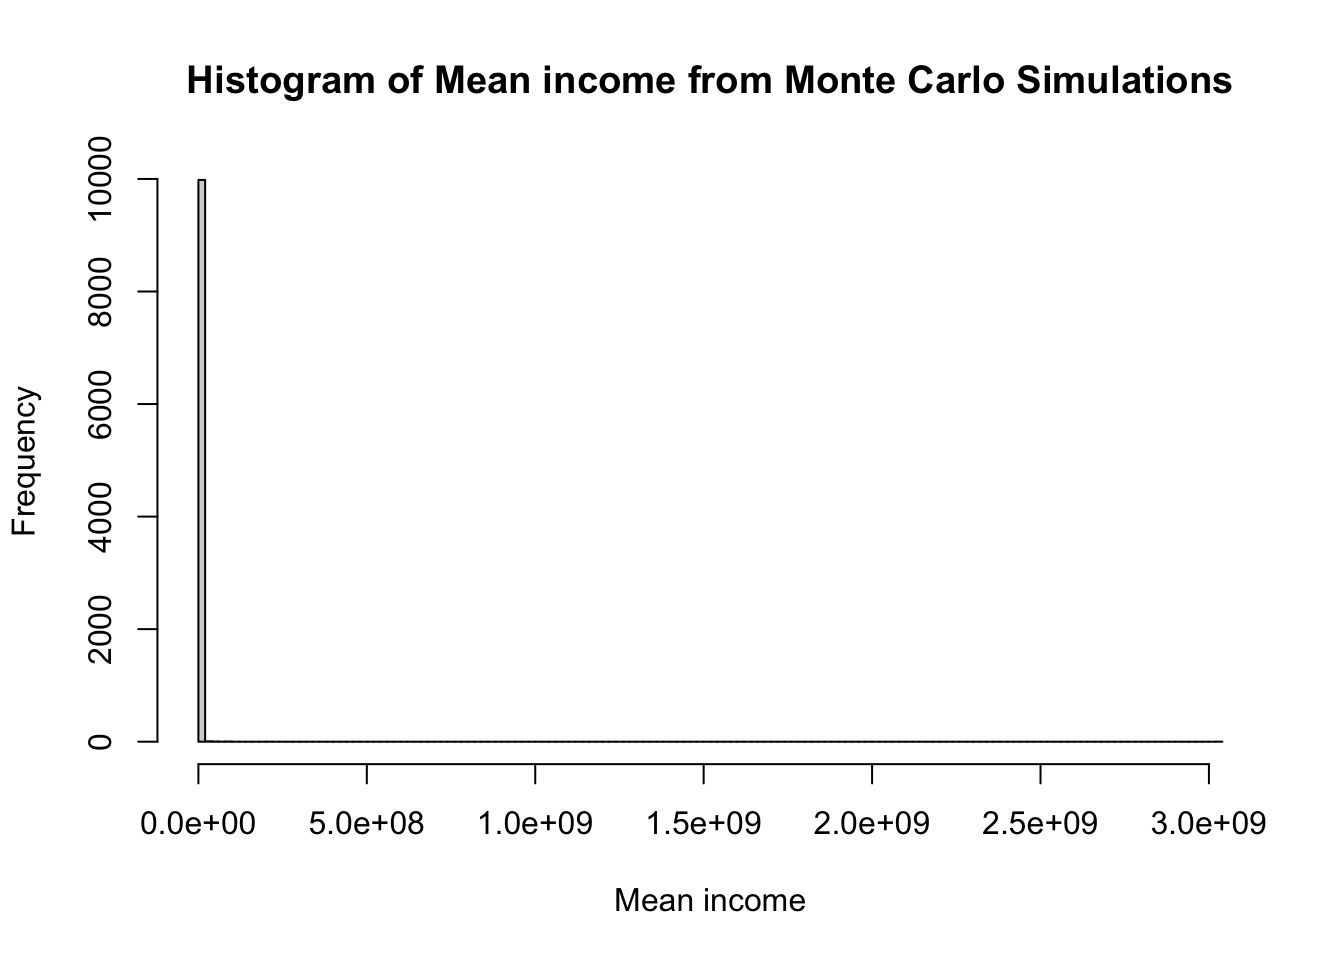
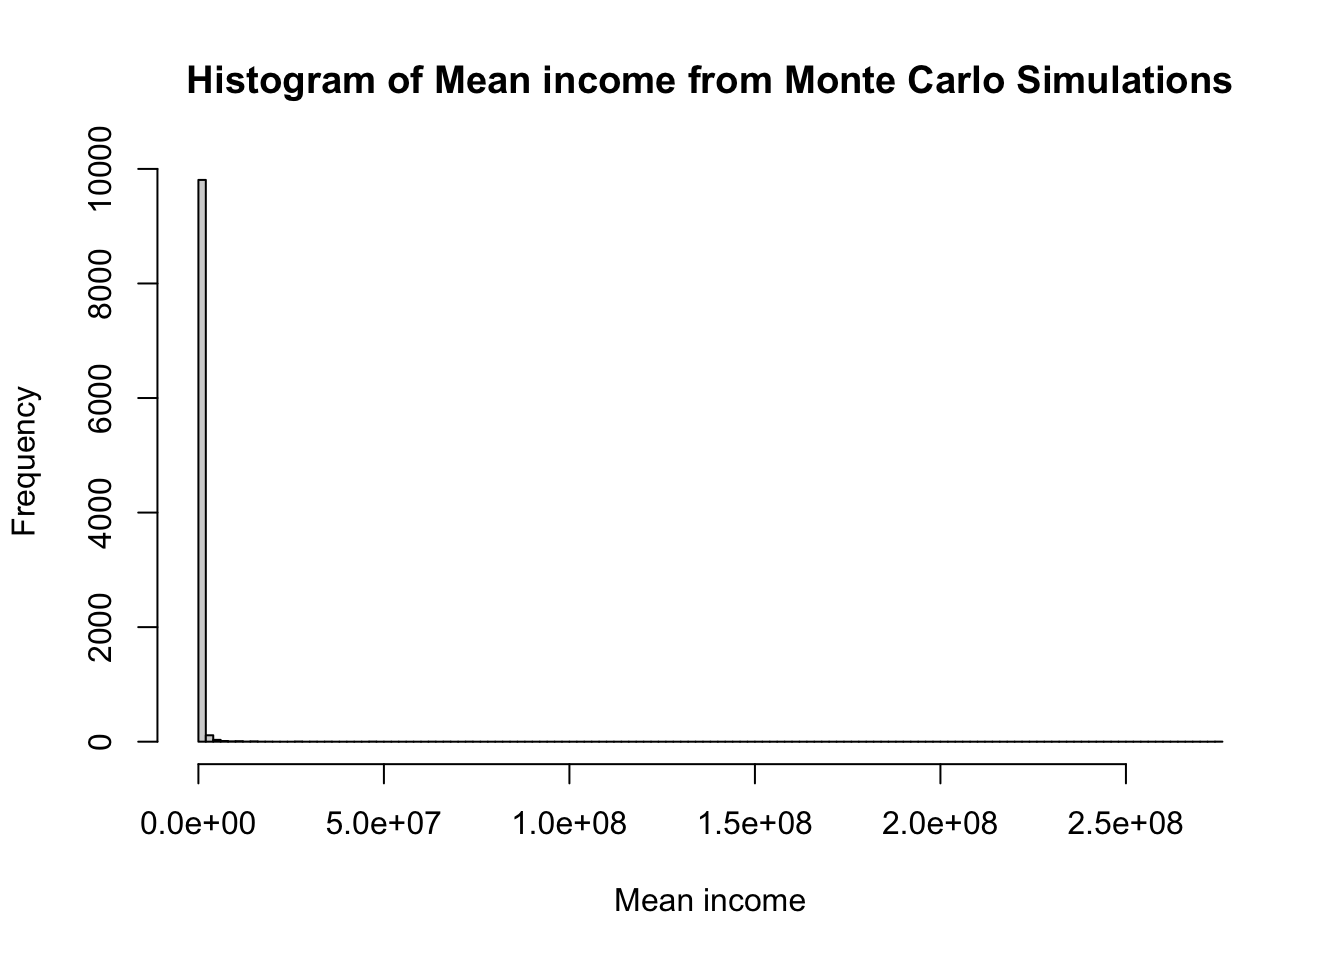
2811247

diff --git a/docs/posts/montecarlo.html b/docs/posts/montecarlo.html
@@ -1972,7 +1972,7 @@ Income distribution is not normal
 </details>
 <div class="cell-output cell-output-stdout">
 <pre><code>     Min.   1st Qu.    Median      Mean   3rd Qu.      Max. 
-2.002e+05 2.963e+05 3.431e+05 8.803e+05 4.387e+05 3.030e+09 </code></pre>
+   215813    295732    343101    555486    434489 274288282 </code></pre>
 </div>
 <details open="" class="code-fold">
 <summary>Code</summary>
@@ -1980,7 +1980,7 @@ Income distribution is not normal
 </details>
 <div class="cell-output cell-output-stdout">
 <pre><code>   Min. 1st Qu.  Median    Mean 3rd Qu.    Max. 
-  62326   64065   64500   64510   64946   66741 </code></pre>
+  62216   64075   64512   64512   64949   67062 </code></pre>
 </div>
 <details open="" class="code-fold">
 <summary>Code</summary>
@@ -1988,7 +1988,7 @@ Income distribution is not normal
 </details>
 <div class="cell-output cell-output-stdout">
 <pre><code>     Min.   1st Qu.    Median      Mean   3rd Qu.      Max. 
-7.520e+05 3.330e+06 5.618e+06 5.853e+07 1.205e+07 3.029e+11 </code></pre>
+1.051e+06 3.333e+06 5.624e+06 2.617e+07 1.160e+07 2.736e+10 </code></pre>
 </div>
 </div>
 </section>

diff --git a/docs/Biomedical/Research Methodology/wrangling.html b/docs/Biomedical/Research Methodology/wrangling.html
@@ -3270,9 +3270,9 @@ Record
 1:     1     1  child
 2:     2     0  child
 3:     3     1  child
-4:     4     1  child
+4:     4     0  child
 5:     5     0  child
-6:     6     0  child</code></pre>
+6:     6     1  child</code></pre>
 </div>
 </div>
 <section id="making-data-wide" class="level3">
@@ -3293,9 +3293,9 @@ Record
 1:     1   &lt;NA&gt;  child
 2:     2  child   &lt;NA&gt;
 3:     3   &lt;NA&gt;  child
-4:     4   &lt;NA&gt;  child
+4:     4  child   &lt;NA&gt;
 5:     5  child   &lt;NA&gt;
-6:     6  child   &lt;NA&gt;</code></pre>
+6:     6   &lt;NA&gt;  child</code></pre>
 </div>
 </div>
 

diff --git a/docs/Revision notes/Diagrams/action.html b/docs/Revision notes/Diagrams/action.html
@@ -2215,7 +2215,7 @@ window.document.addEventListener("DOMContentLoaded", function (event) {
 </div>
   </div>
 </footer>
-<script>var lightboxQuarto = GLightbox({"descPosition":"bottom","loop":false,"closeEffect":"zoom","openEffect":"zoom","selector":".lightbox"});
+<script>var lightboxQuarto = GLightbox({"loop":false,"closeEffect":"zoom","openEffect":"zoom","selector":".lightbox","descPosition":"bottom"});
 (function() {
   let previousOnload = window.onload;
   window.onload = () => {

diff --git a/docs/Revision notes/Diagrams/artcart.html b/docs/Revision notes/Diagrams/artcart.html
@@ -2206,7 +2206,7 @@ window.document.addEventListener("DOMContentLoaded", function (event) {
 </div>
   </div>
 </footer>
-<script>var lightboxQuarto = GLightbox({"closeEffect":"zoom","selector":".lightbox","descPosition":"bottom","loop":false,"openEffect":"zoom"});
+<script>var lightboxQuarto = GLightbox({"closeEffect":"zoom","descPosition":"bottom","openEffect":"zoom","loop":false,"selector":".lightbox"});
 (function() {
   let previousOnload = window.onload;
   window.onload = () => {

diff --git a/docs/Revision notes/Diagrams/cemnt.html b/docs/Revision notes/Diagrams/cemnt.html
@@ -2206,7 +2206,7 @@ window.document.addEventListener("DOMContentLoaded", function (event) {
 </div>
   </div>
 </footer>
-<script>var lightboxQuarto = GLightbox({"closeEffect":"zoom","loop":false,"selector":".lightbox","openEffect":"zoom","descPosition":"bottom"});
+<script>var lightboxQuarto = GLightbox({"closeEffect":"zoom","selector":".lightbox","openEffect":"zoom","descPosition":"bottom","loop":false});
 (function() {
   let previousOnload = window.onload;
   window.onload = () => {

diff --git a/docs/Revision notes/Diagrams/ct.html b/docs/Revision notes/Diagrams/ct.html
@@ -2216,7 +2216,7 @@ window.document.addEventListener("DOMContentLoaded", function (event) {
 </div>
   </div>
 </footer>
-<script>var lightboxQuarto = GLightbox({"descPosition":"bottom","selector":".lightbox","loop":false,"closeEffect":"zoom","openEffect":"zoom"});
+<script>var lightboxQuarto = GLightbox({"selector":".lightbox","loop":false,"descPosition":"bottom","openEffect":"zoom","closeEffect":"zoom"});
 (function() {
   let previousOnload = window.onload;
   window.onload = () => {

diff --git a/docs/Revision notes/Diagrams/fmrbld.html b/docs/Revision notes/Diagrams/fmrbld.html
@@ -2215,7 +2215,7 @@ window.document.addEventListener("DOMContentLoaded", function (event) {
 </div>
   </div>
 </footer>
-<script>var lightboxQuarto = GLightbox({"selector":".lightbox","descPosition":"bottom","openEffect":"zoom","loop":false,"closeEffect":"zoom"});
+<script>var lightboxQuarto = GLightbox({"closeEffect":"zoom","loop":false,"openEffect":"zoom","selector":".lightbox","descPosition":"bottom"});
 (function() {
   let previousOnload = window.onload;
   window.onload = () => {

diff --git a/docs/Revision notes/Diagrams/motion.html b/docs/Revision notes/Diagrams/motion.html
@@ -2206,7 +2206,7 @@ window.document.addEventListener("DOMContentLoaded", function (event) {
 </div>
   </div>
 </footer>
-<script>var lightboxQuarto = GLightbox({"descPosition":"bottom","loop":false,"closeEffect":"zoom","openEffect":"zoom","selector":".lightbox"});
+<script>var lightboxQuarto = GLightbox({"openEffect":"zoom","selector":".lightbox","closeEffect":"zoom","loop":false,"descPosition":"bottom"});
 (function() {
   let previousOnload = window.onload;
   window.onload = () => {

diff --git a/docs/Revision notes/Diagrams/nerve.html b/docs/Revision notes/Diagrams/nerve.html
@@ -2206,7 +2206,7 @@ window.document.addEventListener("DOMContentLoaded", function (event) {
 </div>
   </div>
 </footer>
-<script>var lightboxQuarto = GLightbox({"closeEffect":"zoom","descPosition":"bottom","openEffect":"zoom","loop":false,"selector":".lightbox"});
+<script>var lightboxQuarto = GLightbox({"closeEffect":"zoom","openEffect":"zoom","loop":false,"selector":".lightbox","descPosition":"bottom"});
 (function() {
   let previousOnload = window.onload;
   window.onload = () => {

diff --git a/docs/Revision notes/Diagrams/plxs.html b/docs/Revision notes/Diagrams/plxs.html
@@ -2206,7 +2206,7 @@ window.document.addEventListener("DOMContentLoaded", function (event) {
 </div>
   </div>
 </footer>
-<script>var lightboxQuarto = GLightbox({"selector":".lightbox","openEffect":"zoom","loop":false,"descPosition":"bottom","closeEffect":"zoom"});
+<script>var lightboxQuarto = GLightbox({"closeEffect":"zoom","selector":".lightbox","descPosition":"bottom","openEffect":"zoom","loop":false});
 (function() {
   let previousOnload = window.onload;
   window.onload = () => {

diff --git a/docs/Revision notes/Diagrams/spnlcrd.html b/docs/Revision notes/Diagrams/spnlcrd.html
@@ -2206,7 +2206,7 @@ window.document.addEventListener("DOMContentLoaded", function (event) {
 </div>
   </div>
 </footer>
-<script>var lightboxQuarto = GLightbox({"closeEffect":"zoom","selector":".lightbox","descPosition":"bottom","loop":false,"openEffect":"zoom"});
+<script>var lightboxQuarto = GLightbox({"loop":false,"openEffect":"zoom","selector":".lightbox","descPosition":"bottom","closeEffect":"zoom"});
 (function() {
   let previousOnload = window.onload;
   window.onload = () => {

diff --git a/docs/Revision notes/Diagrams/teardrp.html b/docs/Revision notes/Diagrams/teardrp.html
@@ -2206,7 +2206,7 @@ window.document.addEventListener("DOMContentLoaded", function (event) {
 </div>
   </div>
 </footer>
-<script>var lightboxQuarto = GLightbox({"loop":false,"closeEffect":"zoom","selector":".lightbox","openEffect":"zoom","descPosition":"bottom"});
+<script>var lightboxQuarto = GLightbox({"loop":false,"openEffect":"zoom","descPosition":"bottom","selector":".lightbox","closeEffect":"zoom"});
 (function() {
   let previousOnload = window.onload;
   window.onload = () => {
